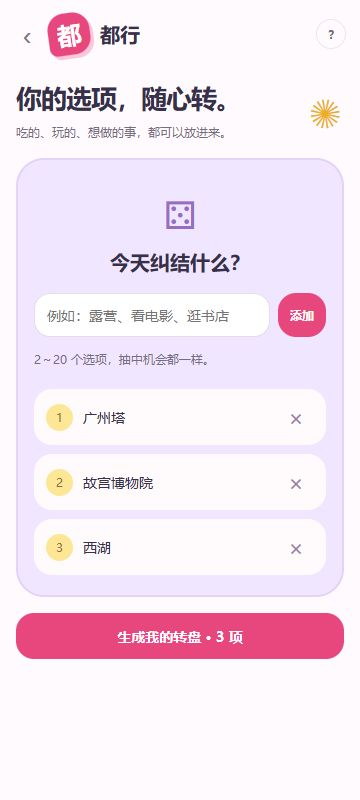
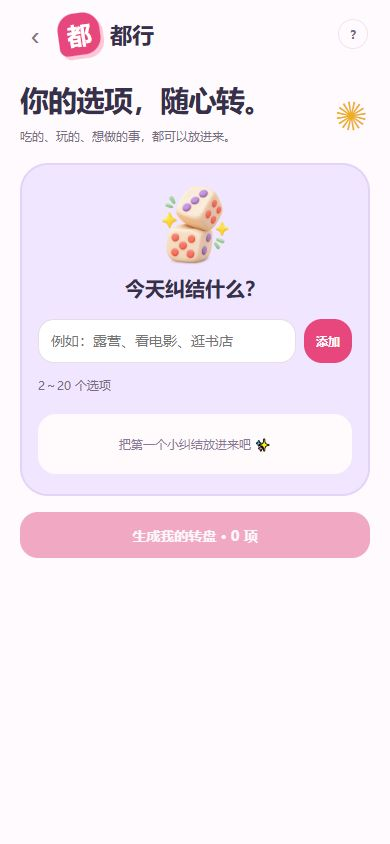
style: add bright cartoon illustrations and simplify labels

diff --git a/app.js b/app.js
@@ -165,14 +165,9 @@ document.addEventListener('input',e=>{const t=e.target;if(t.dataset.key!=='usern
 
 // Main hub: food is available, the other entries explain their current status.
 function homeIllustration(kind){
-  const drawings={
-    food:`<ellipse cx="80" cy="111" rx="51" ry="7" fill="#efb743" opacity=".35"/><path d="M32 66h96c-2 29-19 43-48 43S34 95 32 66" fill="#fa6f55"/><ellipse cx="80" cy="66" rx="48" ry="12" fill="#fff5d9"/><path d="M46 65q14-15 28 0t28 0" fill="none" stroke="#f5bd43" stroke-width="6" stroke-linecap="round"/><path d="m96 57 29-35m-20 41 31-34" stroke="#88533d" stroke-width="5" stroke-linecap="round"/><path d="M53 43q-9-9 0-18m22 18q-9-9 0-18" fill="none" stroke="#fff" stroke-width="5" stroke-linecap="round"/><circle cx="68" cy="83" r="3" fill="#763b37"/><circle cx="91" cy="83" r="3" fill="#763b37"/><path d="M75 91q5 5 10 0" fill="none" stroke="#763b37" stroke-width="3" stroke-linecap="round"/>`,
-    play:`<path d="m25 52 36-12 37 13 35-12v61l-35 12-37-13-36 12Z" fill="#fffce3"/><path d="M61 40v61m37-48v61" stroke="#b6e0b0" stroke-width="3"/><path d="m38 89 24-16 22 17 28-19" fill="none" stroke="#53b58d" stroke-width="4" stroke-dasharray="5 6"/><path d="M91 19c-16 0-28 12-28 27 0 19 28 40 28 40s28-21 28-40c0-15-12-27-28-27Z" fill="#ff7258"/><circle cx="91" cy="45" r="11" fill="#fff4d5"/><path d="m30 25 3 7 8 1-6 5 1 8-6-4-7 4 2-8-6-5 8-1Z" fill="#f9cb43"/>`,
-    travel:`<ellipse cx="79" cy="115" rx="43" ry="6" fill="#7fbade" opacity=".4"/><rect x="45" y="47" width="68" height="63" rx="14" fill="#6c76e5"/><path d="M67 47V36h24v11" fill="none" stroke="#5150a4" stroke-width="6" stroke-linejoin="round"/><path d="M59 55v47m40-47v47" stroke="#aeb5ff" stroke-width="5"/><circle cx="60" cy="112" r="5" fill="#5150a4"/><circle cx="98" cy="112" r="5" fill="#5150a4"/><rect x="71" y="67" width="20" height="17" rx="4" fill="#ffe37b" transform="rotate(-12 81 75)"/><path d="m94 25 41-13-18 36-7-16Z" fill="#fff"/><path d="m110 32 25-20" stroke="#78bfe8" stroke-width="2"/><path d="M23 63h16m-9-12h12" stroke="#fff" stroke-width="5" stroke-linecap="round"/>`,
-    custom:`<g transform="rotate(-13 80 68)"><rect x="40" y="29" width="82" height="82" rx="21" fill="#fff9ec"/><rect x="45" y="34" width="72" height="72" rx="17" fill="none" stroke="#e9d9f4" stroke-width="3"/><g fill="#a674ce"><circle cx="62" cy="51" r="6"/><circle cx="100" cy="51" r="6"/><circle cx="81" cy="70" r="6"/><circle cx="62" cy="89" r="6"/><circle cx="100" cy="89" r="6"/></g></g><path d="M132 23v18m-9-9h18M23 89v12m-6-6h12" stroke="#f8b53f" stroke-width="5" stroke-linecap="round"/>`
-  };
-  return `<svg viewBox="0 0 160 132" aria-hidden="true">${drawings[kind]}</svg>`;
+  return `<img src="assets/${kind}.png" alt="" aria-hidden="true" decoding="async">`;
 }
+
 function renderHome(){
   const entries=[['food','吃什么','让这一餐有点惊喜'],['play','去哪玩','发现身边的小快乐'],['travel','想旅游','下一站，奔向远方'],['custom','自定义','你的选项，交给好运']];
   $('#view').innerHTML=`<section class="home-hub"><header class="hub-header"><span class="hub-flower" aria-hidden="true">✳</span><h1>都行</h1><p>把纠结，交给一点好运。</p></header><div class="hub-intro"><h2>今天，想来点什么？</h2><span aria-hidden="true">✦</span></div><div class="hub-grid">${entries.map(([id,title,description])=>`<button class="hub-card hub-${id}" data-feature="${id}" aria-label="${title}"><span class="hub-art">${homeIllustration(id)}</span><strong>${title}</strong><span class="hub-description">${description}</span></button>`).join('')}</div><p class="hub-footer"><span aria-hidden="true">☀</span> 选一个都行，快乐就出发。</p></section>`;

diff --git a/freewheel.js b/freewheel.js
@@ -5,7 +5,7 @@ function renderFreeWheel(){
   document.body.classList.add('is-freewheel');
   $('#nav').innerHTML='';
   if(freeWheel.stage==='edit'){
-    $('#view').innerHTML=heading('你的选项，随心转。','吃的、玩的、想做的事，都可以放进来。')+`<section class="free-editor"><span class="free-dice" aria-hidden="true">⚄</span><h2>今天纠结什么？</h2><form id="freeOptionForm" class="search-line"><input id="freeOptionName" aria-label="候选项" placeholder="例如：露营、看电影、逛书店" maxlength="80" autocomplete="off"><button class="btn small" type="submit">添加</button></form><p class="muted">2～20 个选项，抽中机会都一样。</p><ul class="free-list">${freeWheel.items.map((s,i)=>`<li><span class="free-number">${i+1}</span><span>${esc(s.name)}</span><button data-free-remove="${s.id}" aria-label="移除${esc(s.name)}">×</button></li>`).join('')||'<li class="free-empty">把第一个小纠结放进来吧 ✨</li>'}</ul></section><button id="freeReady" class="btn full sheet-note" ${freeWheel.items.length<2?'disabled':''}>生成我的转盘 · ${freeWheel.items.length} 项</button>`;
+    $('#view').innerHTML=heading('你的选项，随心转。','吃的、玩的、想做的事，都可以放进来。')+`<section class="free-editor"><img class="free-dice-art" src="assets/custom.png" alt="" aria-hidden="true"><h2>今天纠结什么？</h2><form id="freeOptionForm" class="search-line"><input id="freeOptionName" aria-label="候选项" placeholder="例如：露营、看电影、逛书店" maxlength="80" autocomplete="off"><button class="btn small" type="submit">添加</button></form><p class="muted">2～20 个选项</p><ul class="free-list">${freeWheel.items.map((s,i)=>`<li><span class="free-number">${i+1}</span><span>${esc(s.name)}</span><button data-free-remove="${s.id}" aria-label="移除${esc(s.name)}">×</button></li>`).join('')||'<li class="free-empty">把第一个小纠结放进来吧 ✨</li>'}</ul></section><button id="freeReady" class="btn full sheet-note" ${freeWheel.items.length<2?'disabled':''}>生成我的转盘 · ${freeWheel.items.length} 项</button>`;
   }else{
     $('#view').innerHTML=`<div class="step-nav"><button id="freeEdit">‹ 编辑候选</button><span>随心转一转</span></div>`+heading('答案，就在下一转。','开始后揭晓一个选项，顺便了解它。')+`<section class="panel wheel-panel"><div class="wheel-header"><h3>我的自定义转盘</h3><span class="muted">${freeWheel.items.length} 个选项</span></div><div class="wheel-wrap"><div class="pointer"></div><div class="wheel-rim"><div class="wheel-disc" id="freeDisc">${wheelSVG(freeWheel.items)}</div></div><div class="hub">好运<small>交给这一转</small></div></div><div class="wheel-actions"><button id="freeSpin" class="btn full">开始转盘 ✦</button><p class="wheel-status" id="freeStatus" role="status">每个选项都有同样的机会</p></div></section>`;
   }

diff --git a/style.css b/style.css
@@ -175,3 +175,6 @@ dialog{max-height:90vh;max-height:90dvh}
 .result-stats .stat{min-width:0}.result-stats .stat-note{font-size:13px;line-height:1.6;overflow-wrap:anywhere}.result-stats>#refreshStoreRoute{grid-column:1/-1;justify-self:end;font-size:12px}
 /* Arbitrary choices use a separate, lightweight editor. */
 .is-freewheel .sidebar{display:none}.is-freewheel main{padding-bottom:30px}.free-editor{padding:20px 16px;background:#f0e6ff;border:2px solid #e3d3f9;border-radius:28px}.free-dice{display:block;font-size:48px;text-align:center;color:#986ac5}.free-editor h2{text-align:center;font-size:20px;margin:4px 0 18px}.free-editor input{width:100%;min-width:0}.free-list{padding:0;list-style:none;display:grid;gap:9px;margin:18px 0 0}.free-list li{display:flex;align-items:center;gap:10px;background:#fffafc;padding:10px 12px;border-radius:18px;overflow-wrap:anywhere}.free-list li>span:nth-child(2){flex:1;min-width:0}.free-list button{font-size:22px;min-width:36px;min-height:36px;color:#977eaa}.free-number{display:grid;place-items:center;background:#ffe795;color:#92703c;width:27px;height:27px;border-radius:50%;flex-shrink:0;font-size:12px}.free-empty{font-size:12px;color:#8b7899;justify-content:center;min-height:60px}.free-result{text-align:center;padding:8px 0 22px}.free-result>span{font-size:45px;color:#f1bc3f}.free-result h2{overflow-wrap:anywhere;font-size:26px;margin-top:8px}.free-knowledge{background:#fff3cb;padding:18px;border-radius:22px}.free-knowledge h3{margin-bottom:10px;color:#876830}.free-knowledge p{font-size:13px;line-height:1.9;overflow-wrap:anywhere}.free-knowledge details{margin-top:12px;font-size:12px}.free-knowledge summary{cursor:pointer;min-height:32px}.free-knowledge a{display:block;color:#7851a2;text-decoration:underline;overflow-wrap:anywhere;margin:8px 0}.free-knowledge .btn{margin-top:12px}
+
+/* Generated cartoon illustrations keep navigation and copy readable. */
+.hub-art img{display:block;width:100%;height:100%;object-fit:contain;filter:drop-shadow(0 4px 3px #79554712)}.free-dice-art{display:block;width:110px;height:90px;object-fit:contain;margin:-6px auto 6px}

diff --git a/discovery.js b/discovery.js
@@ -20,7 +20,7 @@ function renderDiscovery(){
     return;
   }
   const group=state.page==='fair',c=state.config;
-  $('#view').innerHTML=((state.activity==='play')?heading('先找好玩的，再交给好运。','这一场，让好运帮你选。'):heading('先找美味，再交给好运。','这一餐，让好运帮你选。'))+`<div class="discovery-toolbar">${(state.activity==='play')?'<span class="mode-button" role="status">📍 单人定位</span>':`<button id="locationMode" class="mode-button">${group?'👫 多人定位':'📍 单人定位'} <span>⌄</span></button>`}<button id="openFilters" class="preference-button">${modeIcon(c.mode)} ${group?'各自的路程':c.mode+' '+c.limit+'分钟'} · ${c.types.length?esc(c.types.join('/')):((state.activity==='play')?'玩什么都行':'口味都行')} <span>筛选</span></button></div>
+  $('#view').innerHTML=((state.activity==='play')?heading('先找好玩的，再交给好运。','这一场，让好运帮你选。'):heading('先找美味，再交给好运。','这一餐，让好运帮你选。'))+`<div class="discovery-toolbar">${(state.activity==='play')?'<span class="mode-button" role="status">📍 单人定位</span>':`<button id="locationMode" class="mode-button">${group?'👫 多人定位':'📍 单人定位'}</button>`}<button id="openFilters" class="preference-button">${modeIcon(c.mode)} ${group?'各自的路程':c.mode+' '+c.limit+'分钟'} · ${c.types.length?esc(c.types.join('/')):((state.activity==='play')?'玩什么都行':'口味都行')} <span>筛选</span></button></div>
   <section class="map-stage"><div class="map-search-button"><button id="homeSearch">⌕ 搜索城市、地铁站、商圈</button><button id="homeLocate" aria-label="使用当前位置">⌖</button></div>
     ${state.live?'<div id="homeMap" aria-label="美食地图，点击选择出发点"></div><div id="homeMapLoading" class="home-map-loading">🗺 正在打开地图…</div>':demoHomeMap()}
   </section>

diff --git a/验证记录.md b/验证记录.md
@@ -181,3 +181,11 @@
 - 390px 结果弹窗与 360px 候选编辑页实际渲染正常；360px document.scrollWidth = 360。从自定义返回主页、进入美食地图正常。
 - `node --test ai-test.cjs` 13 项通过；新增测试覆盖通用接口名称校验、检索与生成、来源、缓存及不传其他候选 / 出发点。JS 语法与 diff 检查通过。
 - 截图：`screenshots/custom-editor.jpg`、`screenshots/custom-result.jpg`，主页截图已更新。
+
+## 卡通素材与提示精简（2026-11-03）
+
+- 美食「单人定位」按钮去掉下拉箭头，实际文本为「📍 单人定位」，按钮仍进入定位方式弹窗。
+- 自定义编辑页说明仅保留「2～20 个选项」。
+- 使用 imagegen 生成四张透明背景明亮黏土卡通插画，分别为美食碗、摩天轮、旅行箱、骰子，放入 assets/，主页入口与自定义页直接使用。
+- 390×844 手机视口实测四张图加载成功、自定义骰子加载成功，主页 scrollWidth = 390；截图 main-home.jpg、custom-editor.jpg 已更新。
+- app.js、freewheel.js、discovery.js、server.cjs、package.cjs 语法及 diff 检查通过；静态资源白名单和分发白名单同步加入四张 PNG。

diff --git a/README.md b/README.md
@@ -72,3 +72,7 @@
 点击开始立即锁定中奖项，并在动画期间通过 `/api/option-research` 调用现有 DeepSeek 搜索与整理服务，只发送中奖名称。弹窗展示中奖项与「你可能想知道」简要介绍，可展开来源或再次抽取。动画等待检索最多约 10 秒再减速；慢请求继续补充结果，失败、空资料和未配置密钥有明确提示及重试入口。服务端复用 15 分钟缓存、来源证据校验和跨站保护。仍使用本机 `.env` 中的 DeepSeek 配置。
 
 主界面四卡片去掉箭头，预算零档显示「不限」，顶栏移除高德 / 演示模式按钮；原有地图设置入口保留。
+
+## 卡通插画与界面精简
+
+主页四个入口改用 AI 生成的透明背景可爱卡通素材：美食碗、摩天轮、旅行箱与骰子；自定义编辑页复用骰子插画。源图片位于 `assets/`，随原型包分发。地图中的真实商户照片继续表示真实商户，界面插画仅用于装饰。美食定位按钮去掉小箭头，自定义候选说明精简为「2～20 个选项」。
